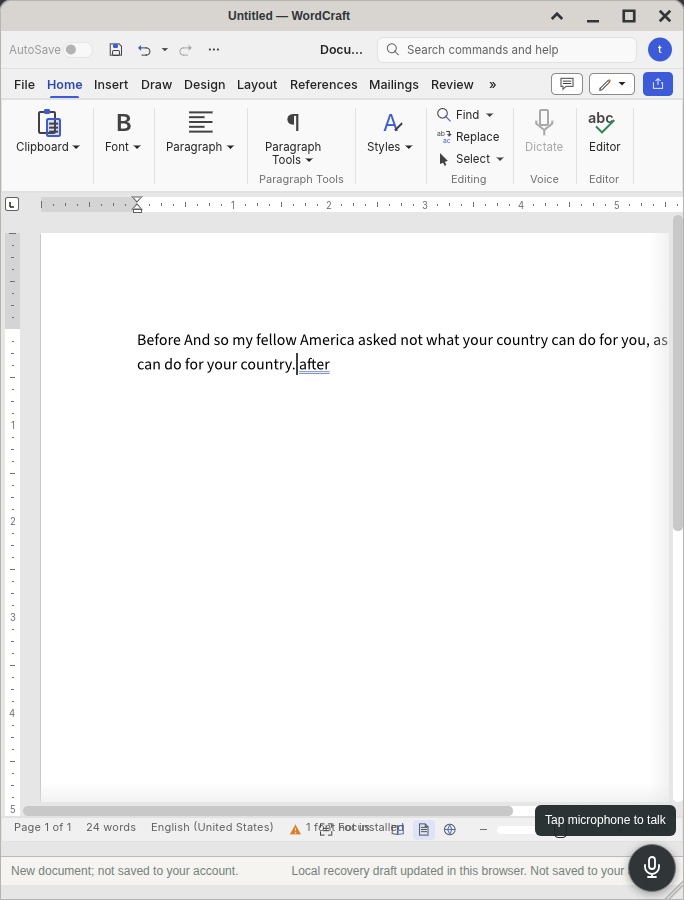
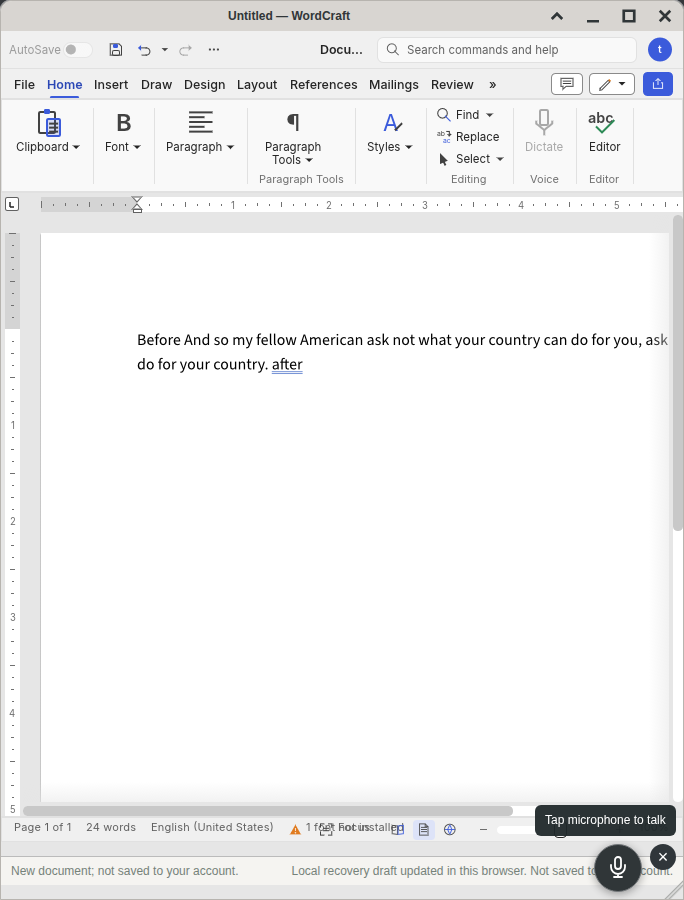
Verify dictation from the launcher after a mouse selection

Changed region(s): [[0.5219, 0.3733, 0.9825, 0.4044], [0.2149, 0.3733, 0.4912, 0.4356], [0.8596, 0.9333, 1.0, 0.9956]]

diff --git a/reviews/live-apps/wordcraft/README.md b/reviews/live-apps/wordcraft/README.md
@@ -11,6 +11,6 @@ Review status is partial. Opening and resizing were observed. Typing with the vi
 
 ## Browser dictation
 
-On November 21, 2026, a disposable account on ksu.codes dictated into CodeMirror, then into a selected word in WordCraft in the same Chromium tab. WebOS Voice Input transcribed a prerecorded speech fixture locally. The surrounding text stayed intact. Undo restored the selected word and Redo restored the transcript. Moving the caret during another recording discarded that recording. The filename field in Save As accepted dictation, and the saved DOCX reopened from account Files with the expected text. The microphone tracks ended and Chromium reported no page error. This run used an emulated microphone. Physical microphone and mobile keyboard behavior remain separate checks.
+On November 21, 2026, a disposable account on ksu.codes dictated into CodeMirror, then into a selected word in WordCraft in the same Chromium tab. WebOS Voice Input transcribed a prerecorded speech fixture locally. A mouse drag selected the word before the user opened System Tools → Voice input. That menu command started recording directly and the surrounding text stayed intact. Undo restored the selected word and Redo restored the transcript. Moving the caret during another recording discarded that recording. The filename field in Save As accepted dictation, and the saved DOCX reopened from account Files with the expected text. The microphone tracks ended and Chromium reported no page error. This run used an emulated microphone. Physical microphone and mobile keyboard behavior remain separate checks.
 
 ![WordCraft with the dictated sentence between the original surrounding words](dictation.png)
